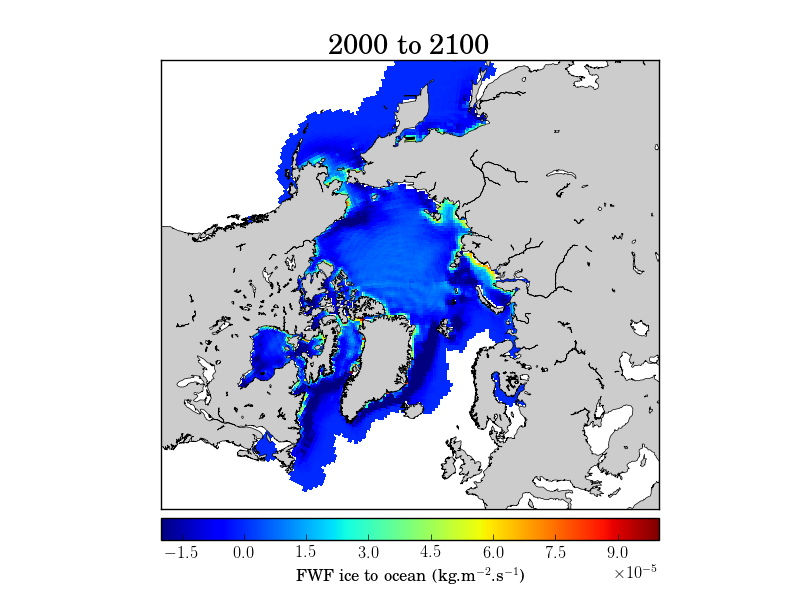
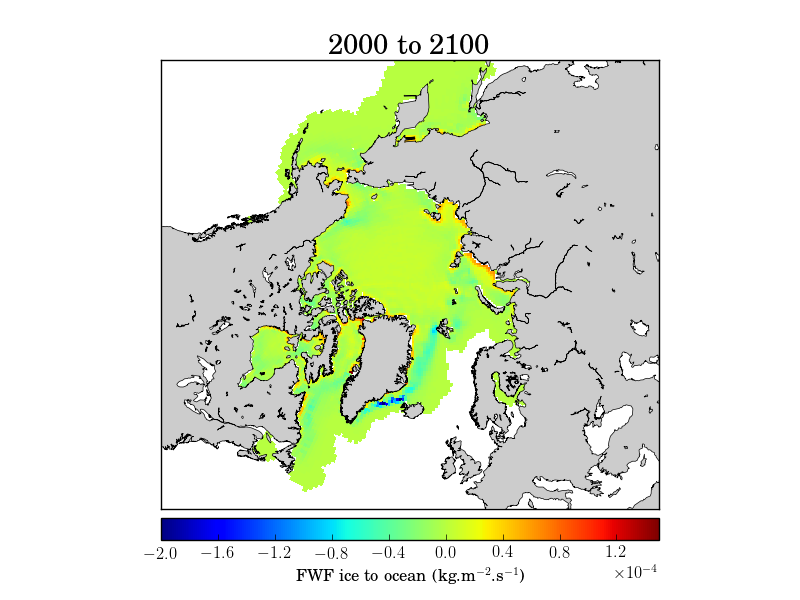
corrected river runoff: issue with NaN (>1E20)

diff --git a/Forcings/one_yr_basic_map.py b/Forcings/one_yr_basic_map.py
@@ -16,11 +16,11 @@ import numpy as np
 import make_plot
 import loading
 
-var = 'MeltedIce'		#sal, runoff, albedo, downHF
-option = 'Uncoupled'
+var = 'runoff'		#sal, runoff, albedo, downHF
+option = 'Coupled'
 specificity = ''
-y1 = 2000
-y2 = 2100
+y1 = 2090
+y2 = 2090
 control = 'Uncoupled'   # Uncoupled or historic
 
 comparison = 'yes'
@@ -44,7 +44,10 @@ class From1950to2100():                                                         
      elif compa == 'yes':
         self.output_file = str(var)+'_map_'+str(self.y1)+'to'\
                            +str(self.y2)                                #//
-     self.path = '/media/fig010/LACIE SHARE/EC_Earth/EC_data/Forcings_'+str(option)+'.nc'
+     if option=='Coupled':
+       self.path = '/media/fig010/LACIE SHARE/EC_Earth/EC_data/rcp8.5_PISM_2090_jan.nc'
+     else:
+       self.path = '/media/fig010/LACIE SHARE/EC_Earth/EC_data/DR8n01_2090_jan.nc'
      
 
      if compa == 'yes':
@@ -61,8 +64,8 @@ class From1950to2100():                                                         
         self.vmin = -1E20
         self.vmax = 1E20
       elif var == 'MeltedIce':
-        self.vmin = -0.5*1E-5                                                                   #//
-        self.vmax = 0.5*1E-4                                                                #//
+        self.vmin = -2*1E-5                                                                   #//
+        self.vmax = 2E-5                                                                #//
 
      elif compa =='no':
        if var == 'sal':                                                               #//
@@ -78,8 +81,8 @@ class From1950to2100():                                                         
         self.vmin = 0                                                                   #//
         self.vmax = 10 
        elif var == 'MeltedIce':
-        self.vmin = -2*1E-4                                                                   #//
-        self.vmax = 1.5*1E-4                                                                  #//
+        self.vmin = -2*1E-5                                                                   #//
+        self.vmax = 1E-4                                                                  #//
 
      return                                                                             #//
 #//////////////////////////////////////////////////////////////////////////////////////////
@@ -95,13 +98,13 @@ else:
 
 
 VarArray_simu = loading.extracting_var(simu.path, var)
-index_y1 = np.min(np.where(simu.first_year+time[:]/(3600*24*364.5)>simu.y1))
-index_y2 = np.min(np.where(simu.first_year+time[:]/(3600*24*364.5)>simu.y2))
+#index_y1 = np.min(np.where(simu.first_year+time[:]/(3600*24*364.5)>simu.y1))
+#index_y2 = np.min(np.where(simu.first_year+time[:]/(3600*24*364.5)>simu.y2))
 
 
 if comparison == 'no':
-   array_to_plot = np.nanmean(VarArray_simu[:,:,index_y1:index_y2+1],axis=2)
-   array_to_plot[np.where(array_to_plot>1E10)]=0#np.nan
+   array_to_plot = VarArray_simu[:,:,0]
+   array_to_plot[np.where(array_to_plot>1E20)]=0#np.nan
 
    array_to_plot[array_to_plot==0] = np.nan
    array_to_plot = np.ma.masked_invalid(array_to_plot)
@@ -109,18 +112,17 @@ if comparison == 'no':
 
 elif comparison == 'yes':
    if control == 'Uncoupled':
-     path2 = '/media/fig010/LACIE SHARE/EC_Earth/EC_data/Forcings_Coupled.nc'
-     Coupled_array = loading.extracting_var(path2, var)
+     path2 = '/media/fig010/LACIE SHARE/EC_Earth/EC_data/DR8n01_2090_jan.nc'
+     Uncoupled_array = loading.extracting_var(path2, var)
      out = str(simu.output_file)+'C-UC'
 
-     array_C = Coupled_array[:,:,index_y1:index_y2+1]
-     array_C[np.where(array_C>1E20)]=0#np.nan
-     array_UC = VarArray_simu[:,:,index_y1:index_y2+1]
+     array_UC = Uncoupled_array[:,:,0]
      array_UC[np.where(array_UC>1E20)]=0#np.nan
+     array_C = VarArray_simu[:,:,0]
+     array_C[np.where(array_C>1E20)]=0#np.nan
 
      array_to_plot = array_C-array_UC
      array_to_plot[array_to_plot==0] = np.nan
-     array_to_plot = np.nanmean(array_to_plot,axis=2)
    else: 
      out = str(simu.output_file)+'AnoTo90s_'+str(option)
      index_y1c = np.min(np.where(simu.first_year+time[:]/(3600*24*364.5)>simu.y1_compa))

diff --git a/Forcings/time_serie_FWFice.py b/Forcings/time_serie_FWFice.py
@@ -86,6 +86,30 @@ def var_fc_time(var,variable_name,t,first_year_file,lat_min,name_outfile,ocean):
   return
 
 
+def time_serie_Arctic_2D(path,var_name,lat_min,basin):
+  yr, xr, time = loading.extracting_coord_2D(path)
+  VAR = loading.extracting_var(path, var_name)
+  S = loading.extracting_var(path,'sal')
+  VAR[np.where( S[:,:,0,:]==0. )] = 0#np.nan
+  VAR[np.where(VAR>1E10)]=0#np.nan
+
+  if basin =='undefined':
+     mask = loading.latitudinal_band_mask(yr,lat_min,90)
+  else:
+     mask = loading.Ocean_mask(xr,yr,basin)
+
+  VAR[np.where(VAR==0)]=np.nan
+
+  area = size_each_bins(xr,yr)
+
+  FWF = area[mask]*VAR[mask,:].transpose(1, 0)*1E6
+  mean_FWF = np.nansum(FWF,axis=1)
+
+
+  return time, mean_FWF
+
+
+
 def time_serie(path,var,lat_min,basin):
   yr, xr, time = loading.extracting_coord_2D(path)
   melted_ice = loading.extracting_var(path, var)
@@ -143,13 +167,6 @@ def size_bin(x0, x1, x2, y0, y1, y2):
 def size_each_bins(xr,yr):
 
   area = np.zeros_like((xr))
-  '''for j in range(1,np.size(xr[0,:])-1):
-    area[0,j] = size_bin(xr[-1,j], xr[0,j], xr[1,j], yr[0,j-1], yr[0,j], yr[0,j+1])
-    area[-1,j] = size_bin(xr[-2,j], xr[-1,j], xr[0,j], yr[-1,j-1], yr[-1,j], yr[-1,j+1])
-  
-  for i in range(1,np.size(xr[:,0])-1):
-    area[i,0] = size_bin(xr[i-1,0], xr[i,0], xr[i+1,0], yr[i,0], yr[i,0], yr[i,1])
-    area[i,-1] = size_bin(xr[i-1,-1], xr[i,-1], xr[i+1,-1], yr[i,-2], yr[i,-1], yr[i,-1])'''
   for i in range(1,np.size(xr[:,0])-1):
     for j in range(1,np.size(xr[0,:])-1):
       area[i,j] = size_bin(xr[i-1,j], xr[i,j], xr[i+1,j], yr[i,j-1], yr[i,j], yr[i,j+1])
@@ -158,10 +175,10 @@ def size_each_bins(xr,yr):
  # - - - - - - - - - - - - - - - - - - - - - - - - - - - - - - - - - - - - - - - - - - - - 
 
 simu = From1950to2100(option,var,y1,y2,comparison,lat_min,basin,month) 
-time, FWF_region = time_serie(simu.path,var,lat_min,basin)
+time, FWF_region = time_serie_Arctic_2D(simu.path,var,lat_min,basin)
 
 simu_c = From1950to2100('Coupled',var,y1,y2,comparison,lat_min,basin,month) 
-time, FWF_region_c = time_serie(simu_c.path,var,lat_min,basin)
+time, FWF_region_c = time_serie_Arctic_2D(simu_c.path,var,lat_min,basin)
 
 
 index_y1 = np.min(np.where(simu.first_year+time[:]/(3600*24*364.5)>simu.y1))

diff --git a/Forcings/time_serie_anomalie.py b/Forcings/time_serie_anomalie.py
@@ -17,8 +17,8 @@ import make_plot
 import loading
 
 
-var = 'MeltedIce'			# sal, runoff, albedo, downHF
-option = 'Coupled'		# Coupled, Uncoupled
+var = 'runoff'			# sal, runoff, albedo, downHF
+option = 'Uncoupled'		# Coupled, Uncoupled
 y1 = 1950
 y2 = 2100
 
@@ -106,21 +106,23 @@ def time_serie_Arctic(path,var,lat_min,basin):
   return time, depth, mean_Arctic
 
 
-def time_serie_Arctic_2D(path,var,lat_min,basin):
+def time_serie_Arctic_2D(path,var_name,lat_min,basin):
   yr, xr, time = loading.extracting_coord_2D(path)
-  ice = loading.extracting_var(path, var)
-  print(np.max(ice),np.min(ice))
+  VAR = loading.extracting_var(path, var_name)
   S = loading.extracting_var(path,'sal')
-  ice[np.where( S[:,:,0,:]==0. )] = np.nan
+  VAR[np.where( S[:,:,0,:]==0. )] = 0#np.nan
+  print(np.max(VAR),np.min(VAR))
+  VAR[np.where(VAR>1E10)]=0#np.nan
+  print(np.max(VAR),np.min(VAR))
 
   if basin =='undefined':
      mask = loading.latitudinal_band_mask(yr,lat_min,90)
   else:
      mask = loading.Ocean_mask(xr,yr,basin)
-     make_plot.points_on_map(xr[mask],yr[mask],var,basin)
+     make_plot.points_on_map(xr[mask],yr[mask],var_name,basin)
 
-  arctic = ice[mask,:]
-  arctic[np.where(arctic==0)]=np.nan
+  VAR[np.where(VAR==0)]=np.nan
+  arctic = VAR[mask,:]
   mean_Arctic = np.nansum(arctic,axis=0)
   return time, mean_Arctic
 

diff --git a/Forcings/make_plot.py b/Forcings/make_plot.py
@@ -203,8 +203,8 @@ def var_fc_time(var,variable_name,t,first_year_file,lat_min,name_outfile,ocean):
   if variable_name == 'IceC':
      plt.ylabel('Ice cover',fontsize=18)
   plt.xlabel('time',fontsize=18)
-  plt.title('basins')
-  plt.savefig(str(variable_name)+'/all_basins.png')
+  plt.title(str(ocean.replace("_"," ")))
+  plt.savefig(str(variable_name)+'/'+str(name_outfile.replace(".",""))+'.png')
   return
 
 
